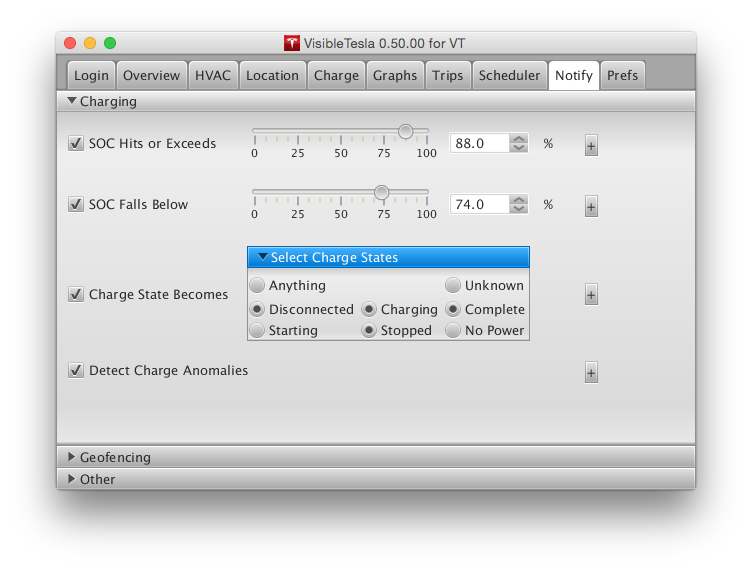
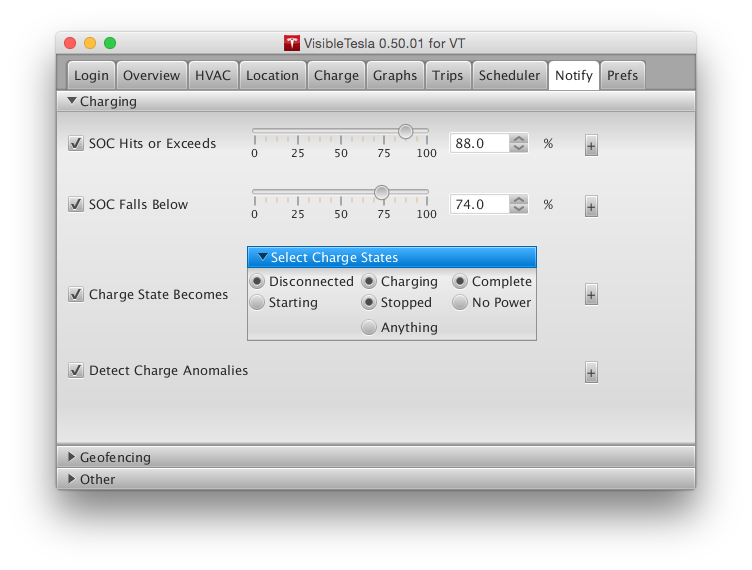
Update Notify Tab documentation

Changed region(s): [[0.3364, 0.4175, 0.734, 0.5965], [0.5505, 0.0596, 0.5811, 0.0895]]

diff --git a/Documentation/pages/NotifyTab.html b/Documentation/pages/NotifyTab.html
@@ -92,8 +92,6 @@
 								</li>
 								<li>NoPower,
 								</li>
-								<li>Unknown,
-								</li>
 								<li>Anything
 								</li>
 							</ul>
